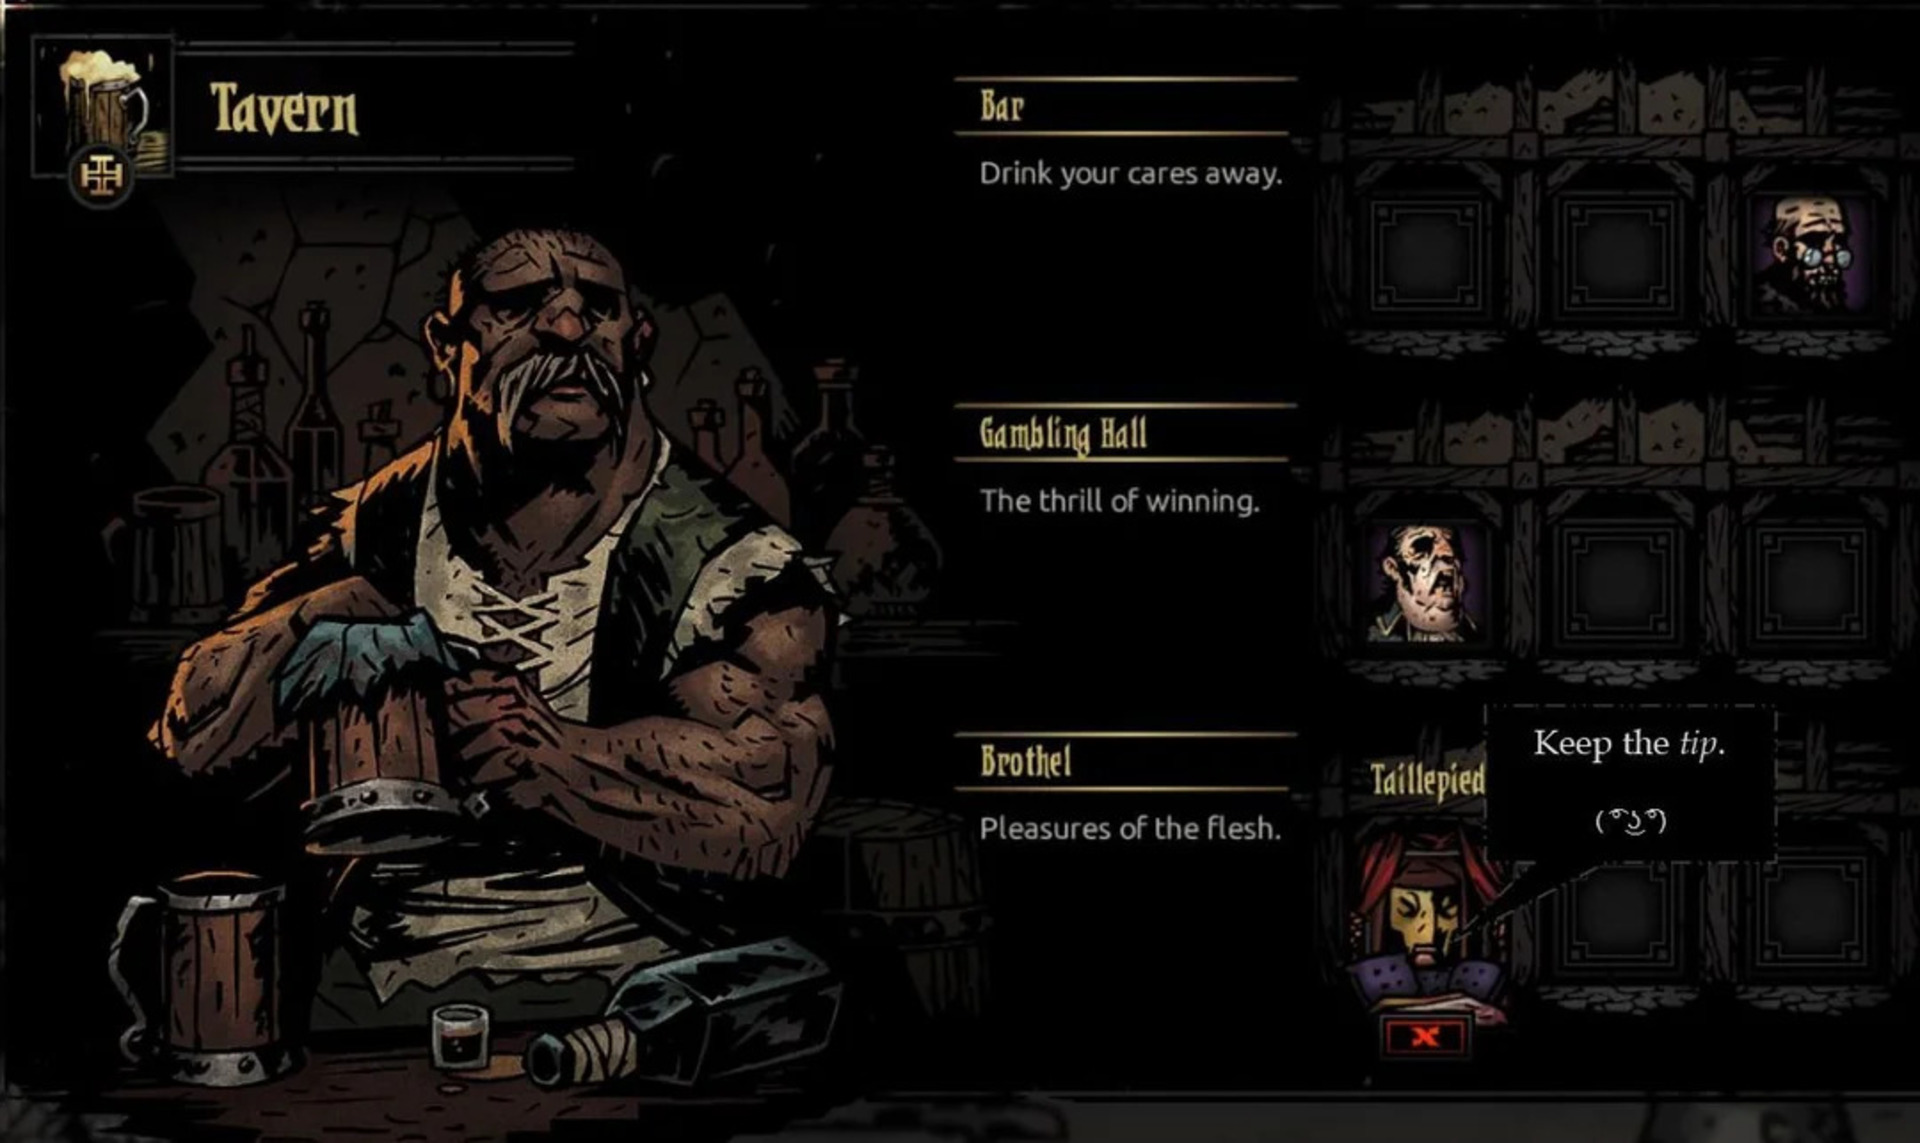
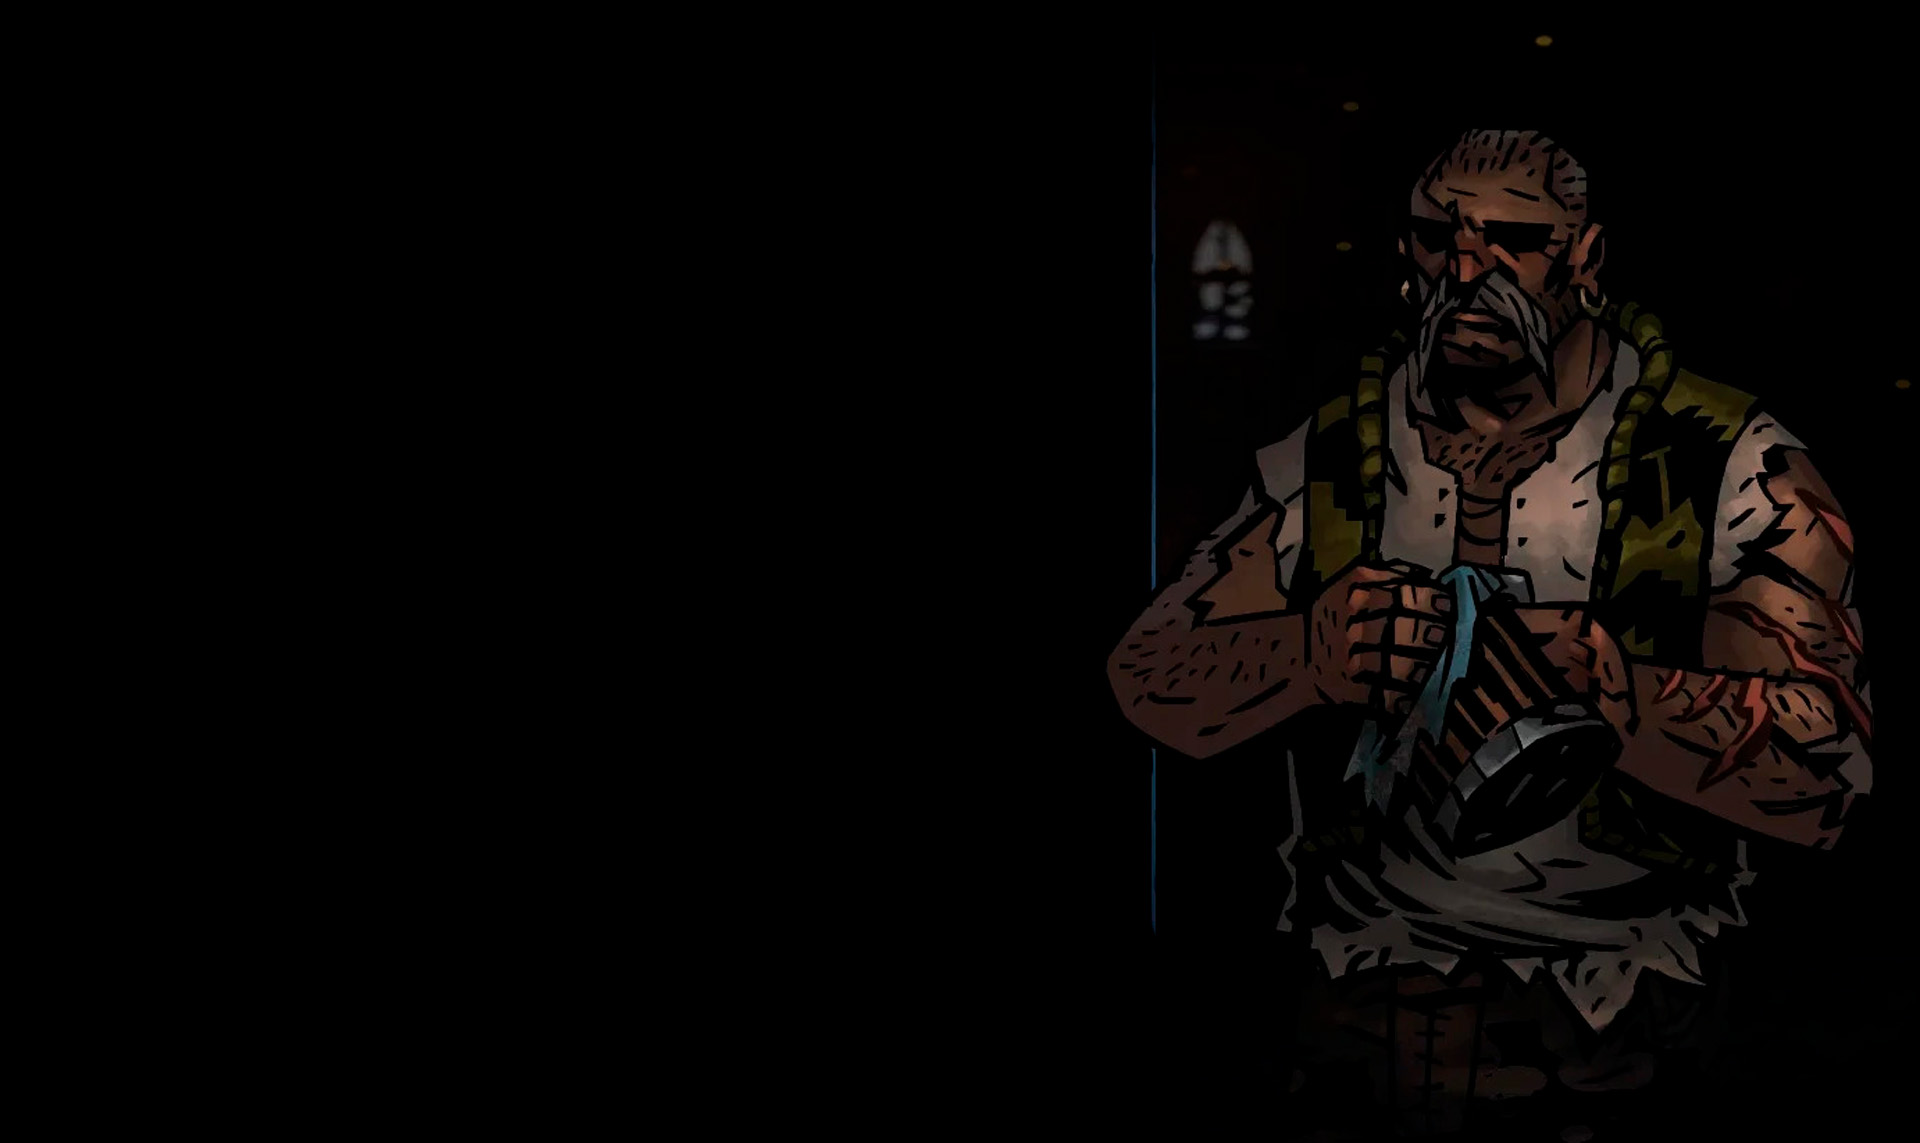
zoom hover heroImg

diff --git a/src/assets/components/styles/HeroesPage.scss b/src/assets/components/styles/HeroesPage.scss
@@ -1,11 +1,96 @@
-.heroSelectorContain{
+.heroContainer{
+    position: absolute;
+    left: 0;
+
     display: flex;
-    flex-direction: row;
-    justify-content: space-between;
+    width: 60%;
+    height: 92vh;
+}
+
+.heroContain{
+    display: flex;
+    flex-direction: column;
     align-items: center;
-    margin: 0 0 20px 0;
-    padding: 0 20px;
-    background-color: #f2f2f2;
-    border-radius: 5px;
-    box-shadow: 0 0 5px 0 rgba(0,0,0,0.2);
+    justify-content: center;
+
+    width: 100%;
+    height: 100%;
+    margin: 5%;
+
+    h2 {
+        font-size: 1.8em;
+        color: #d5ae52;
+        text-transform: uppercase;
+        text-align: center;
+    }
+
+    hr {
+        width: 60%;
+        margin-bottom: 1rem;
+        border: 1px solid #d5ae52;
+      }
+}
+
+.boxHeroContainer{
+    display: flex;
+    flex-wrap: wrap;
+    flex-direction: row;
+    align-items: center;
+    justify-content: center;
+
+    width: 100%;
+    gap: 0.5rem;
+
+    a {
+      display: flex;
+      flex-direction: column;
+      align-items: center;
+      justify-content: center;
+      text-align: center;
+      overflow: hidden;
+
+      .imgContain {
+        position: relative;
+
+        border: solid 2px rgb(255, 255, 255, 0.5);
+        overflow: hidden;
+        width: 7rem;
+        height: 7rem;
+
+        img {
+          position: absolute;
+          top: 0;
+          left: 0;
+          width: 100%;
+          height: 100%;
+          transition: all 0.2s ease-in-out;
+        }
+      }
+
+      i {
+        color: #fff;
+      }
+
+      .goodHero {
+        opacity: 0;
+      }
+
+      &:hover {
+        .goodHero {
+          opacity: 1;
+          scale: 1.3;
+          transform: translate(-10px, 10px);
+        }
+    
+        .badHero {
+          opacity: 0;
+          scale: 1.3;
+          transform: translate(-10px, 10px);
+        }
+
+        i{
+          color: #d5ae52;
+        }
+      }
+    }
 }

diff --git a/src/assets/data/heroSection.js b/src/assets/data/heroSection.js
@@ -1,0 +1,54 @@
+export const heroData = [
+  {
+    goodHero: [
+      "public/HeroIcons/goodHero/Highwayman.jpg",
+      "public/HeroIcons/goodHero/graveRobber.jpg",
+      "public/HeroIcons/goodHero/Hellion.jpg",
+      "public/HeroIcons/goodHero/Jester.jpg",
+      "public/HeroIcons/goodHero/Leper.jpg",
+      "public/HeroIcons/goodHero/manAtArms.jpg",
+      "public/HeroIcons/goodHero/Occultist.jpg",
+      "public/HeroIcons/goodHero/PlagueDoctor.jpg",
+      "public/HeroIcons/goodHero/Vestal.jpg",
+      "public/HeroIcons/goodHero/Runaway.jpg",
+      "public/HeroIcons/goodHero/BountyHunter.jpg",
+      "public/HeroIcons/goodHero/Crusader.jpg",
+      "public/HeroIcons/goodHero/Duelist.jpg",
+      "public/HeroIcons/goodHero/Flagellant.jpg",
+    ],
+
+    badHero: [
+      "public/HeroIcons/badHero/Highwayman.jpg",
+      "public/HeroIcons/badHero/graveRobber.jpg",
+      "public/HeroIcons/badHero/Hellion.jpg",
+      "public/HeroIcons/badHero/Jester.jpg",
+      "public/HeroIcons/badHero/Leper.jpg",
+      "public/HeroIcons/badHero/manAtArms.jpg",
+      "public/HeroIcons/badHero/Occultist.jpg",
+      "public/HeroIcons/badHero/PlagueDoctor.jpg",
+      "public/HeroIcons/badHero/Vestal.jpg",
+      "public/HeroIcons/badHero/Runaway.jpg",
+      "public/HeroIcons/badHero/BountyHunter.jpg",
+      "public/HeroIcons/badHero/Crusader.jpg",
+      "public/HeroIcons/badHero/Duelist.jpg",
+      "public/HeroIcons/badHero/Flagellant.jpg",
+    ],
+
+    heroNames: [
+      "Highwayman",
+      "Grave-Robber",
+      "Hellion",
+      "Jester",
+      "Leper",
+      "Man-At-Arms",
+      "Occultist",
+      "Plague-Doctor",
+      "Vestal",
+      "Runaway",
+      "Bounty-Hunter",
+      "Crusader",
+      "Duelist",
+      "Flagellant",
+    ],
+  },
+];

diff --git a/src/assets/components/HeroesPage.jsx b/src/assets/components/HeroesPage.jsx
@@ -1,5 +1,6 @@
 import React from "react";
 import "./styles/HeroesPage.scss";
+import { heroData } from "../data/heroSection";
 
 export default function HeroesPage({ url_Bg }) {
   return (
@@ -8,8 +9,34 @@ export default function HeroesPage({ url_Bg }) {
         className="background"
         style={{ background: `url(${url_Bg}) no-repeat center top/cover` }}
       >
+        <div className="heroContainer">
+          <div className="heroContain">
+            <h2>Select Your Darkest Hero</h2>
+            <hr />
 
-        
+            <div className="boxHeroContainer">
+              {heroData &&
+                heroData[0] &&
+                heroData[0].badHero &&
+                heroData[0].badHero.map((hero, index) => (
+                  <a href="" key={index}>
+                    <div className="imgContain">
+                      <img
+                        className="badHero"
+                        src={hero}
+                        alt={heroData[0].heroNames[index]}
+                      />
+                      <img
+                        className="goodHero"
+                        src={heroData[0].goodHero[index]}
+                      />
+                    </div>
+                    <i>{heroData[0].heroNames[index]}</i>
+                  </a>
+                ))}
+            </div>
+          </div>
+        </div>
       </div>
     </div>
   );

diff --git a/src/assets/components/App.jsx b/src/assets/components/App.jsx
@@ -22,7 +22,7 @@ function App() {
         </section>
 
         <section id="Heroes">
-          <HeroesPage url_Bg="heroSelect.jpg" />
+          <HeroesPage url_Bg="HeroTavern.jpg" />
         </section>
       </div>
     </>

diff --git a/src/index.css b/src/index.css
@@ -61,7 +61,7 @@ header {
 }
 
 
-/* .App {
+.App {
   scroll-snap-type: y mandatory;
   overflow-y: scroll;
   height: 100vh;
@@ -71,4 +71,4 @@ header {
 section {
   scroll-snap-align: start;
   height: 100vh;
-} */
+} 
